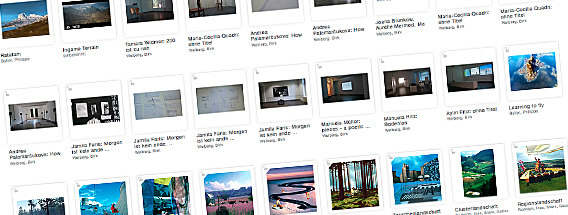
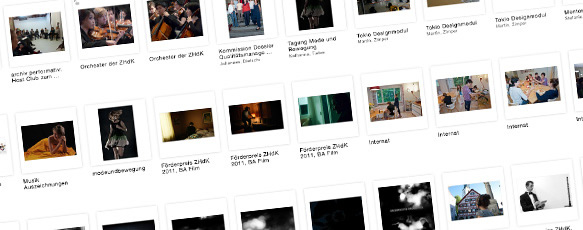
[ROOT PAGE] Slideshow is connected to Set now

diff --git a/app/assets/stylesheets/root/nivo-slider.css b/app/assets/stylesheets/root/nivo-slider.css
@@ -14,8 +14,8 @@
 .nivoSlider {
 	margin: 18px 26px 60px 26px;
 	position:relative;
-	width: 568px;
-	height: 215px;
+	width: 583px;
+	height: 230px;
 }
 .nivoSlider img {
 	position:absolute;
@@ -51,6 +51,7 @@
 .nivo-caption {
 	position:absolute;
 	left:0px;
+	top: 171px;
 	bottom:0px;
 	background:#000;
 	color:#fff;

diff --git a/app/assets/stylesheets/root/root.scss b/app/assets/stylesheets/root/root.scss
@@ -27,6 +27,14 @@ width:0;
 margin-top:-32767px;/* thank you Erik J - negate effect of float*/
 }
 
+#slider-wrapper {
+  height: 248px;
+  overflow: hidden;
+  position: relative;
+  left: -7px;
+  width: 609px;
+}
+
 #users.sidebar-box {
   
   .inline-tabs {

diff --git a/app/assets/stylesheets/root/smv-style.css b/app/assets/stylesheets/root/smv-style.css
@@ -83,7 +83,7 @@ a:hover {
 	margin-bottom: 15px;*/
 }
 #slider-wrapper {
-	margin: 25px 0 70px 0;
+	margin: 0 0 95px 0;
 }
 
 #slider img {

diff --git a/app/controllers/media_sets_controller.rb b/app/controllers/media_sets_controller.rb
@@ -39,7 +39,9 @@ class MediaSetsController < ApplicationController
   # API #
   # get nested media_entries:
   # GET "/media_sets/:id.js"
-  def show
+  def show( options_for_media_entries = params[:options_for_media_entries],
+            thumb = params[:thumb])
+            
     params[:per_page] ||= PER_PAGE.first
 
     paginate_options = {:page => params[:page], :per_page => params[:per_page].to_i}
@@ -61,10 +63,9 @@ class MediaSetsController < ApplicationController
         #FE# render :json => @media_set.as_json(:user => current_user)
         json = {:id => @media_set.id, :title => @media_set.title}
 
-        if params[:with_media_entries]
-          with_thumb = (params[:thumb].to_i > 0)
-          json.merge!({ :entries => resources.as_json(:only => :id, :methods => :title,
-                                                      :user => current_user, :with_thumb => with_thumb) })
+        if options_for_media_entries and options_for_media_entries.is_a? Hash
+          options_for_media_entries.reverse_merge!(:only => :id, :methods => :title, :user => current_user)
+          json.merge!(:entries => resources.as_json(options_for_media_entries))
         end
         render :json => json
       }

diff --git a/app/models/resource.rb b/app/models/resource.rb
@@ -177,6 +177,7 @@ module Resource
       exif_conf.close
     end
     
+    # TODO merge to as_json
     # NEW and experimental for batch processes 
     def get_basic_info(current_user, extended_keys = [], with_thumb = false)
       core_keys = ["title", "author"]
@@ -224,6 +225,7 @@ module Resource
     user = options[:user] #.delete(:user)
     with_thumb = options[:with_thumb]
     
+    #TODO DONT DO THIS PER DEFAULT!
     flags = { :is_private => acl?(:view, :only, user),
               :is_public => acl?(:view, :all),
               :is_editable => Permission.authorized?(user, :edit, self),
@@ -231,7 +233,7 @@ module Resource
 
     default_options = {:only => :id}
     json = super(default_options.deep_merge(options))
-    json.merge(self.get_basic_info(user, [], with_thumb)).merge(flags)
+    json.merge(self.get_basic_info(user, [], with_thumb)).merge(flags) #TODO DONT DO THIS PER DEFAULT!
   end
 
 ########################################################

diff --git a/config/application.rb b/config/application.rb
@@ -91,7 +91,10 @@ FILE_UTIL_PATH = "/usr/bin/file -b --mime-type"
 THUMBNAILS = { :x_large => '1024x768>', :large => '620x500>', :medium => '300x300>', :small_125 => '125x125>', :small => '100x100>' }
 PER_PAGE = [36,72,144]
 
-SPLASHSCREEN_SLIDESHOW_SET = 361
+SPLASHSCREEN_SLIDESHOW_SET = { "test" => {:media_set_id => 527},
+                               "production" => {:media_set_id => 543},
+                               "development" => {:media_set_id => 1}
+                             }
 
 DEFAULT_ACTION_PERMISSIONS = {  :view => false, # read
                                 :edit => false #, # update
